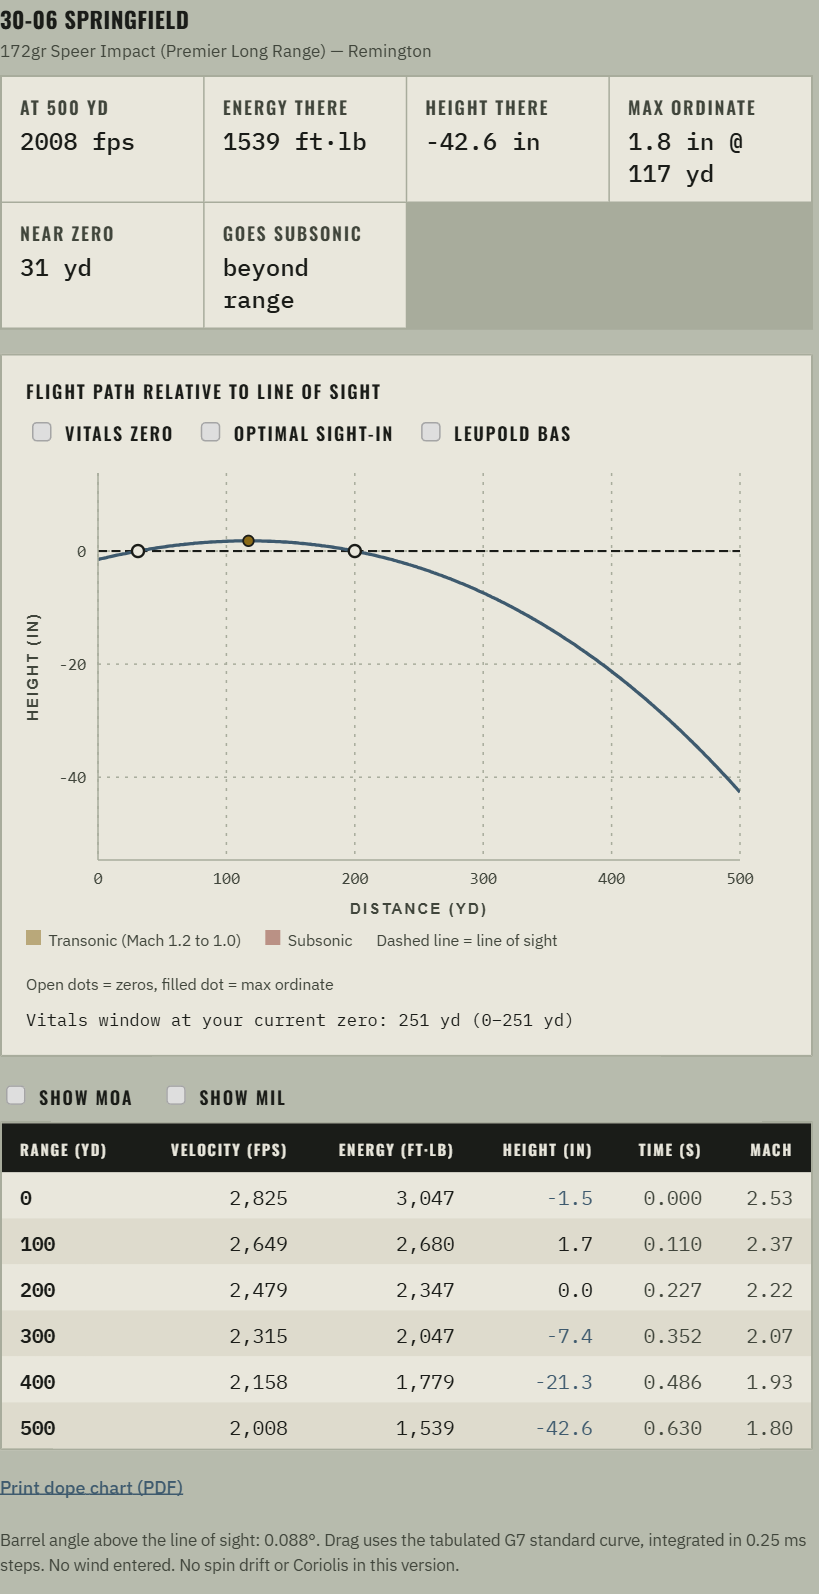
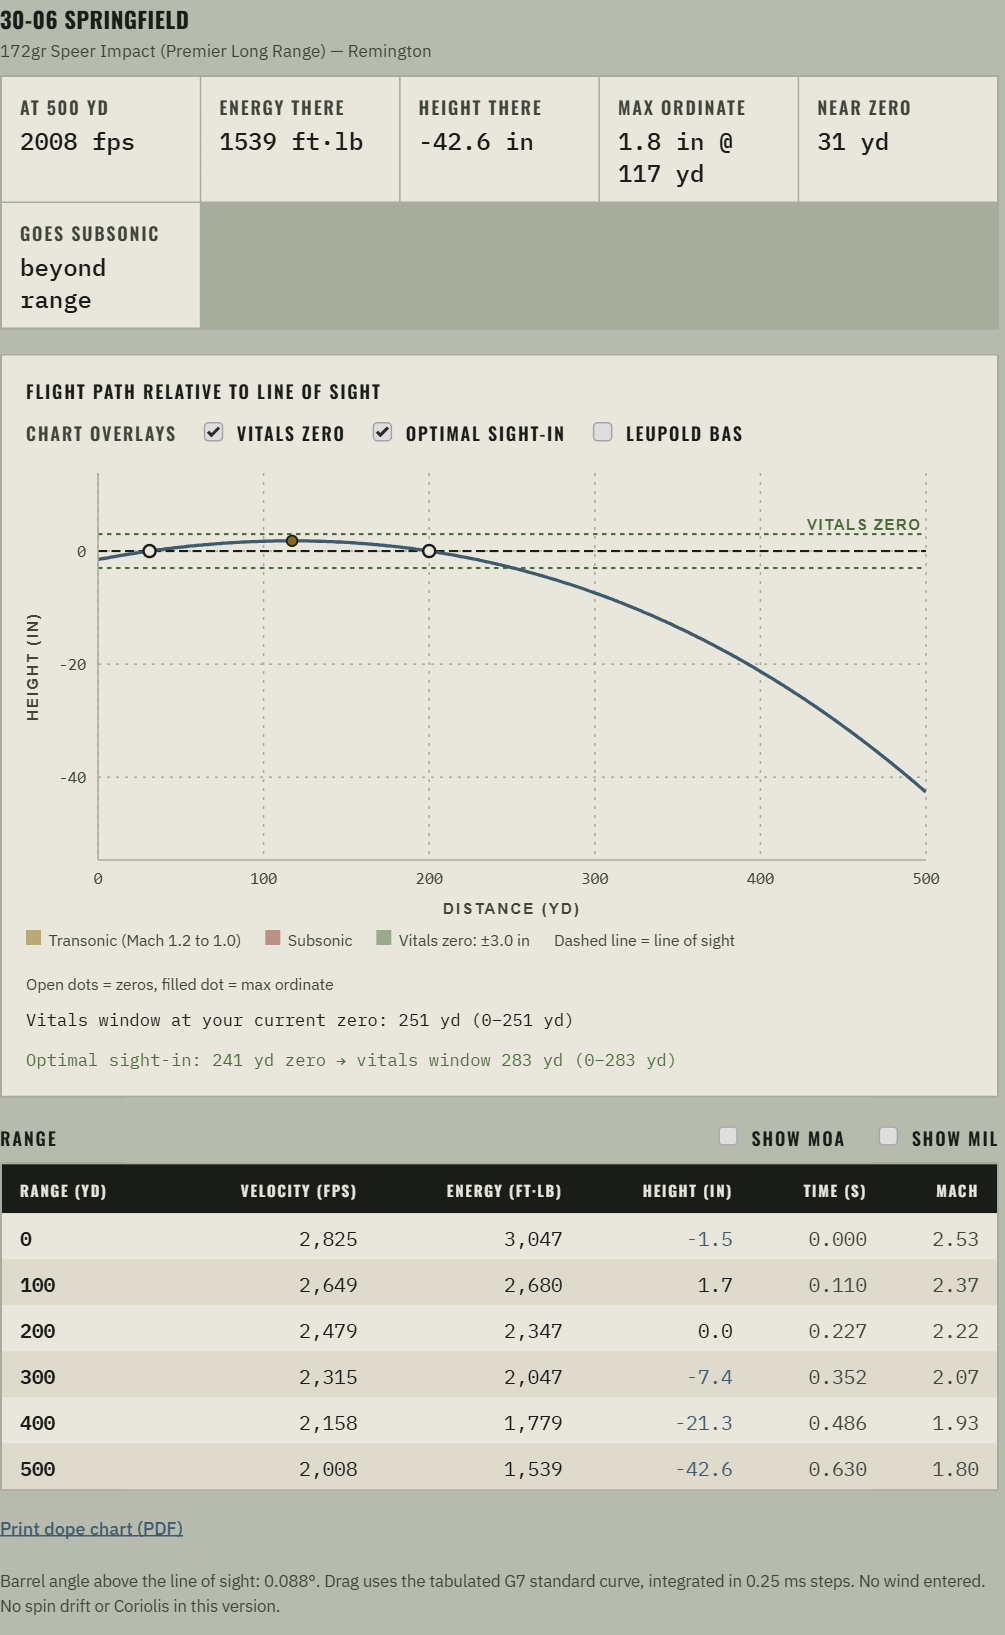
Field Guide: refresh Calculator screenshots/copy for PR #19
PR #19 (Step 1 declutter + toggle defaults) made two screenshots and a
few copy lines stale. Content-only, recaptured against the live app by
the "UserGuide" session:

- calculator.png: Vitals Zero + Optimal Sight-in now on by default
  (the vitals band, the "optimal sight-in: 241yd zero -> 283yd window"
  readout), range-table toggles now under the new "Range" header.
- sidebar-collapsed.png: Step 1 open with the fused catalog-pick lock
  summary + Override, the pre-filled "Name this load" suggestion,
  Steps 2-6 collapsed by default on a first visit (not a manual
  Collapse-all).
- index.html: Quick Start steps 1 and 4 mention the lock/Override and
  the suggested name; the Calculator tool card's overlay bullet and
  the chart-legend's "Vitals band" line note the new on-by-default
  state; both figcaptions rewritten to describe what's actually in
  the new images.

Reviewed before committing: diff matches exactly what was described,
both new images verified against real current app behavior (fused
lock line, pre-filled suggestion, default-on overlays, Range header
all present and correct), all 5 guide images load 200 locally.

diff --git a/public/guide/index.html b/public/guide/index.html
@@ -212,7 +212,9 @@
       <div class="step">
         <div class="n">1</div>
         <div><h3>Pick your round</h3><p>Use the caliber → manufacturer → load picker to pull real muzzle
-          velocity, weight, and BC from the catalog — or type your own numbers for a handload.</p></div>
+          velocity, weight, and BC from the catalog — or type your own numbers for a handload. A catalog
+          pick locks into one summary line ("172gr @ 2825 fps · G7 0.265") with an Override link if you
+          need to edit it.</p></div>
       </div>
       <div class="step">
         <div class="n">2</div>
@@ -226,13 +228,14 @@
       </div>
       <div class="step">
         <div class="n">4</div>
-        <div><h3>Name and save it</h3><p>One save reuses the whole setup in Compare and Optimal Zero —
-          no retyping the same load twice.</p></div>
+        <div><h3>Name and save it</h3><p>The name field suggests one for you (from the catalog pick, or
+          from grains/velocity/BC for a custom load) — keep it or rename it. One save reuses the whole
+          setup in Compare and Optimal Zero, no retyping the same load twice.</p></div>
       </div>
     </div>
     <figure class="shot" style="max-width:420px;">
-      <img src="images/sidebar-collapsed.png" alt="Calculator's input form, collapsed to one-line summaries after a first pass through all six sections.">
-      <figcaption>Every section folds to a one-line summary once you've filled it in — real state from the live app, not a mockup.</figcaption>
+      <img src="images/sidebar-collapsed.png" alt="Calculator's input form on a first visit: Step 1 (The load) open with a locked catalog-pick summary and Override link, Steps 2 through 6 already folded to one-line summaries.">
+      <figcaption>What you actually see on a first visit: Step 1 stays open, everything below it starts folded to a one-line summary. Expand any section, or hit "Expand all" — real state from the live app, not a mockup.</figcaption>
     </figure>
   </section>
 
@@ -249,7 +252,7 @@
         <ul>
           <li>Chart shows drop <em>from your line of sight</em>, not the bore — matches what you'd
             actually see through a scope.</li>
-          <li>Optional overlays: Vitals Zero band, Optimal Sight-in, Leupold BAS reticle group.</li>
+          <li>Chart overlays: Vitals Zero band and Optimal Sight-in are on by default; Leupold BAS is opt-in.</li>
           <li>Range table toggles MOA/MIL columns; "Print dope chart" builds a clean printable card.</li>
         </ul>
         <div class="watch"><b>Watch for</b>Sight height, vitals radius, and the air fields are your shared
@@ -316,8 +319,8 @@
     <p>Real state pulled straight from the live app — not mockups.</p>
     <div class="shots">
       <figure class="shot">
-        <img src="images/calculator.png" alt="Calculator tab showing a 30-06 Springfield trajectory: summary strip, flight-path chart, and range table with MOA/MIL toggles.">
-        <figcaption><b>Calculator</b> — the summary strip, flight-path chart, and range table for one load. This one's zeroed at 200yd and stays supersonic the whole way to 500.</figcaption>
+        <img src="images/calculator.png" alt="Calculator tab showing a 30-06 Springfield trajectory: summary strip, flight-path chart with the Vitals Zero band and Optimal Sight-in overlays on, and a range table.">
+        <figcaption><b>Calculator</b> — the summary strip, flight-path chart, and range table for one load. Vitals Zero and Optimal Sight-in are on by default, so the chart already shows the vitals band and the "optimal sight-in" readout (241yd zero → 283yd window) alongside this load's own 200yd-zero window (251yd).</figcaption>
       </figure>
       <figure class="shot">
         <img src="images/compare.png" alt="Compare tab overlaying two 30-06 loads zeroed at 200yd and 300yd, with a table of muzzle velocity, energy, and downrange figures.">
@@ -350,7 +353,7 @@
           band, Mach 1.2 down to 1.0, where drag gets unpredictable.</span></div>
         <div class="li"><span class="swatch s"></span><span><strong>Ox shading</strong> — subsonic,
           past Mach 1.0.</span></div>
-        <div class="li"><span class="swatch vit"></span><span><strong>Vitals band</strong> (toggle) —
+        <div class="li"><span class="swatch vit"></span><span><strong>Vitals band</strong> (on by default) —
           the span where impact stays within your vitals radius of point of aim.</span></div>
       </div>
     </div>
